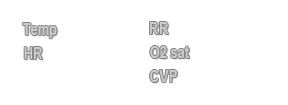
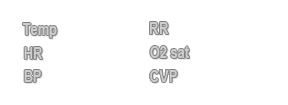
Updated the physiological component (graphics).
git-svn-id: https://ecmojo.svn.sourceforge.net/svnroot/ecmojo@79 6adee215-725e-4b28-87c1-af44a2b16021

Changed region(s): [[0.0625, 0.6571, 0.1562, 0.8]]

diff --git a/trunk/app/src/app/edu/hawaii/jabsom/tri/ecmo/app/view/comp/PhysiologicMonitorComponentPanel.java b/trunk/app/src/app/edu/hawaii/jabsom/tri/ecmo/app/view/comp/PhysiologicMonitorComponentPanel.java
@@ -85,12 +85,14 @@ public class PhysiologicMonitorComponentPanel extends ComponentPanel {
     text = String.valueOf((int)component.getHeartRate());
     g.drawString(text, 88, 60);
 
-    g.setFont(g.getFont().deriveFont(Font.BOLD, 14f));
-    text = String.valueOf((int)component.getSystolicBloodPressure()) + "/"
-      + String.valueOf((int)component.getDiastolicBloodPressure()) + " ("
-      + String.valueOf((int)component.getMeanBloodPressure()) + ")";
-    g.drawString(text, 40, 84);
-
+    g.setFont(g.getFont().deriveFont(Font.BOLD, 12f));
+    text = String.valueOf((int)component.getSystolicBloodPressure()) + " / "
+         + String.valueOf((int)component.getDiastolicBloodPressure());
+    g.drawString(text, 88, 77);
+    g.setFont(g.getFont().deriveFont(Font.PLAIN, 11f));
+    text = "Mean: " + String.valueOf((int)component.getMeanBloodPressure());
+    g.drawString(text, 88, 86);
+   
     g.setFont(g.getFont().deriveFont(Font.BOLD, 16f));
     text = String.valueOf((int)component.getRespiratoryRate());
     g.drawString(text, 212, 34);
